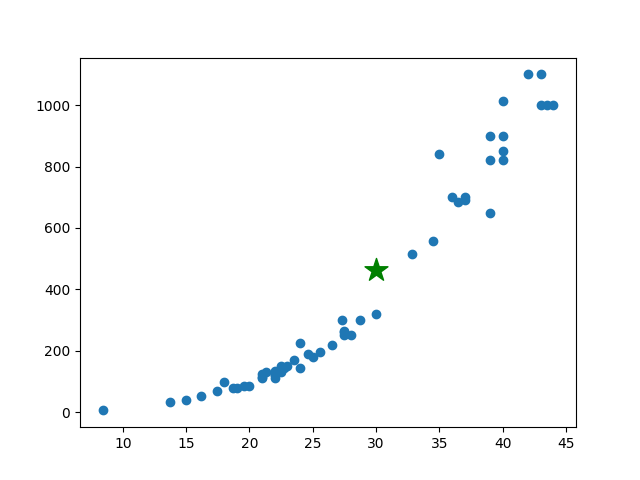
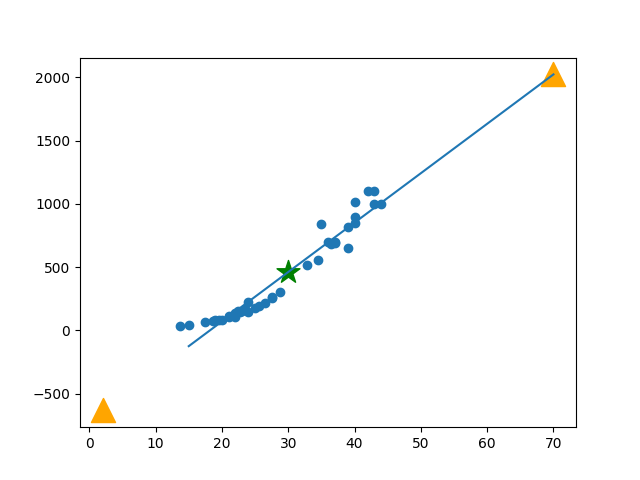
Add basketball regression example

diff --git a/20260605/04.basket_ball.py b/20260605/04.basket_ball.py
@@ -1,0 +1,92 @@
+import pandas as pd
+import matplotlib.pyplot as plt
+import seaborn as sns
+
+df = pd.read_csv('/home/kk30100/deeplearning_prj/20260605/basketball_stat.csv')
+print(df.head())
+print(df.info())
+print(df['Pos'].value_counts())
+
+sns.lmplot(x='TRB', y='3P',data=df, fit_reg=False,
+           scatter_kws={'s': 150}, markers=['*','P'], hue='Pos')
+plt.title('TRB and 3P in 2d plane')
+plt.savefig('TRB and 3P in 2d plane')
+
+sns.lmplot(x='BLK', y='3P',data=df, fit_reg=False,
+           scatter_kws={'s': 150}, markers=['*','P'], hue='Pos')
+plt.title('BLK and 3P in 2d plane')
+plt.savefig('BLK and 3P in 2d plane')
+
+df.drop(['2P','AST','STL'],axis=1, inplace=True) # 이름이 []인 열지우기, 0이면 이름이 [] 인 행지우기
+print(df.head())
+
+######################################################################################
+
+from sklearn.model_selection import train_test_split
+
+train, test = train_test_split(df, test_size=0.2, random_state=45)
+print(train.shape[0])
+print(test.shape[0])
+
+# 이제부터 최적의 Knn 파라미터 찾기
+# cross_val, score() 활용
+# 최적의 k를 찾기 위한 교차검증 수행할 k의범위를
+# 3 부터학습데이터절반까지 설정, 홀수로 설정이 적절
+
+from sklearn.neighbors import KNeighborsClassifier
+from sklearn.model_selection import cross_val_score
+
+max_k_range = train.shape[0] // 2 # k 범위 잡아주기
+k_list = []
+for i in range(3, max_k_range, 2): # 홀수로 잡아줌, 1은 하나라서 넘어가고 3부터 2씩
+    k_list.append(i)
+print(k_list) # k 값 리스트
+
+x_train= train[['3P','BLK','TRB']]
+y_train= train[['Pos']]
+
+cross_validation_scores = []
+for k in k_list:
+    knn = KNeighborsClassifier(n_neighbors=k)
+    scores = cross_val_score(knn, x_train, y_train.values.ravel(), cv=10, scoring='accuracy')
+    cross_validation_scores.append(scores.mean())
+# cross_val_score() < 뭐하는애야? 교차검증 점수들을 계산해주는 함수
+# cv = 10(훈련 데이터를 10조각낸다, 1-10까지 돌리면서 해당 번호는 검증, 나머진 훈련용)
+# 그렇게해서 scores에 점수가 총 10개 들어감
+# 그렇기에 아래에서 평균을 내주는거고
+# 그럼 k값에 따라서 훈련이 된 점수들을 쭉 뽑아볼 수 있을것
+
+# 여긴 cross_val_score y 값이 1차원이 필요해서 value로 numpy로 변환, ravel로 떙겨옴땡겨옴
+print(cross_validation_scores)
+plt.figure()
+plt.plot(k_list, cross_validation_scores)
+plt.xlabel('number of k')
+plt.ylabel('Accuracy')
+plt.savefig('농구선')
+
+# k = 3 일때 가장 높은 정확도임을 확인함
+
+# 훈련/테스트 데이터 분리
+
+knn= KNeighborsClassifier(n_neighbors=3)
+x_train = train[['3P','BLK','TRB']]
+y_train = train[['Pos']]
+
+knn.fit(x_train,y_train.values.ravel())
+
+x_test = test[['3P','BLK','TRB']]
+y_test = test[['Pos']]
+
+pred = knn.predict(x_test)
+print('예측 결과: ', pred)
+
+print(y_test.values) # 2차원 데이터
+print(y_test.values.ravel()) # 1차원 데이터
+
+from sklearn.metrics import accuracy_score
+# accuracy_score() : confusion matrix(혼동행렬) 활용 정확도 계산
+print('accuracy: ' +str( accuracy_score(y_test.values.ravel(), pred)))
+print('acc: ', knn.score(x_test, y_test))
+
+comparison = pd.DataFrame({'prediction':pred, 'truth value':y_test.values.ravel() })
+print(comparison.head())

diff --git a/20260605/03.sklearn_MultilinearReg.py b/20260605/03.sklearn_MultilinearReg.py
@@ -22,34 +22,34 @@ perch_weight=np.array([5.9,32.0,40.0,51.5,70.0,100.0,78.0,80.0,85.0,85.0,110.0,
 # 데이터 분리
 train_x, test_x, train_y, test_y = train_test_split(perch_length, perch_weight, random_state=42)
 
-
+# 차원 변경
 train_x = train_x.reshape(-1,1)
 test_x = test_x.reshape(-1,1)
+# print(train_x[:5] )
+# print(train_x[:5]**2 )
 
-lnr = LinearRegression()
-lnr.fit(train_x, train_y)
-print(lnr.score(test_x, test_y))
-pred = lnr.predict(test_x)
-pred_30 = lnr.predict([[30]])
-pred_70 = lnr.predict([[70]])
-pred_20 = lnr.predict([[2]])
-print(pred)
-print(pred_30)
-print(pred_70)
-print(pred_20)
 
-print(lnr.coef_*30 + lnr.intercept_)
+train_poly = np.column_stack( (train_x**2, train_x) )
+print(train_poly[:5])
+print(train_poly.shape)
+test_poly = np.column_stack( (test_x**2, test_x) )
+print(test_poly.shape)
 
+multi_lrmodel = LinearRegression()
+multi_lrmodel.fit(train_poly, train_y)
+print('acc: ', multi_lrmodel.score(test_poly, test_y))
+# 가중치, 편향 출력
+print(multi_lrmodel.coef_, multi_lrmodel.intercept_)
+
+# 예측
+# 길이가 30인 농어의 무게를 예측
+pred30 = multi_lrmodel.predict([[900, 30]])
+print('pred: ', pred30)
+print( multi_lrmodel.coef_[0]*900 + multi_lrmodel.coef_[1]*30 + multi_lrmodel.intercept_ )
 
 plt.scatter(train_x, train_y)
-plt.scatter(30, pred_30, marker='*', s=300, c='green')
-plt.scatter(70, pred_70, marker='^', s=300, c='orange')
-plt.scatter(2, pred_20, marker='^', s=300, c='orange')
-plt.plot([15, 70],[lnr.coef_*15 + lnr.intercept_, lnr.coef_*70 + lnr.intercept_])
-plt.savefig("선형농어")
-print(lnr.coef_, lnr.intercept_) # coef = 기울기, intercept = 절편
 
+xpoint = np.arange(15, 50) # [15...49]
+plt.plot(xpoint, 1.01*xpoint**2 - 21.*xpoint + 116.05)
 
-x_line = np.array([perch_length.min(), perch_length.max()]).reshape(-1, 1)
-y_line = lnr.predict(x_line)
-print(f'{x_line}, ddd{y_line}')
+plt.savefig('농어곡선')

diff --git a/20260605/plot_linear_exam.py b/20260605/plot_linear_exam.py
@@ -1,0 +1,10 @@
+import numpy as np
+import matplotlib.pyplot as plt
+
+
+
+
+# [5,5]와 [50,50] 위치를 직선으로 연결해서 표시
+
+plt.plot([0,50], 90)
+plt.savefig('선그래프')
